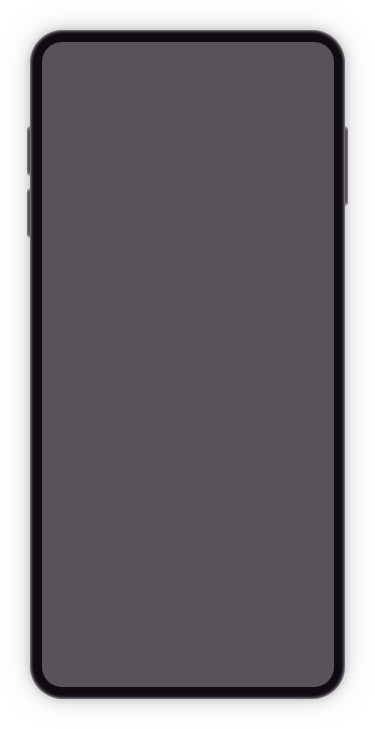
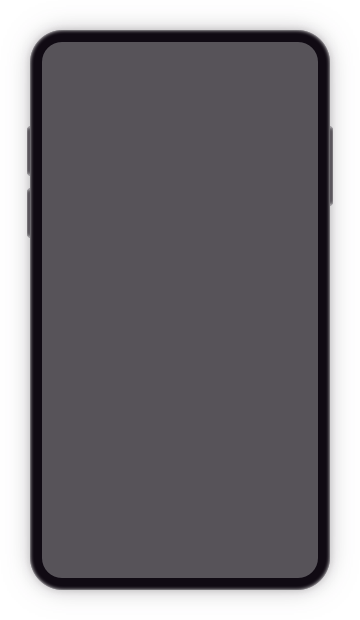
fix: 用户端图片上传

Changed region(s): [[0.0611, 0.0306, 0.9472, 0.9806]]

diff --git a/src/views/pages/brand/marketing/components#/slider.component.vue b/src/views/pages/brand/marketing/components#/slider.component.vue
@@ -15,7 +15,7 @@
             </div>
             <st-form-item v-else labelWidth="46px" label="链接">
                 <a-select placeholder="请输入连接的活动" @select="actSelect(li,$event)" v-model="li.activity_id">
-                    <a-select-option v-for="(act, i) in actList" :key="i" :value="act.id">{{act.activity_name}}</a-select-option>
+                    <a-select-option v-for="(act, i) in actList" :key="i" :value="act.id" :disabled="filterActList(act.id)">{{act.activity_name}}</a-select-option>
                 </a-select>
             </st-form-item>
           </div>
@@ -30,7 +30,7 @@
           </st-image-upload>
             <st-form-item labelWidth="46px" label="链接">
                 <a-select placeholder="请输入连接的活动" @select="addSelect" v-model="addItem.activity_id">
-                  <a-select-option v-for="(act, i) in actList" :key="i" :value="act.id">{{act.activity_name}}</a-select-option>
+                  <a-select-option v-for="(act, i) in actList" :key="i" :value="act.id" :disabled="filterActList(act.id)">{{act.activity_name}}</a-select-option>
                 </a-select>
             </st-form-item>
             </div>
@@ -41,10 +41,11 @@
 </template>
 <script>
 import { H5WrapperService } from '@/views/pages/brand/setting/mina/components#/h5/h5-wrapper.service'
-import { cloneDeep } from 'lodash-es'
+import { cloneDeep, find as _find } from 'lodash-es'
 import draggable from 'vuedraggable'
 import { ActivityService } from '../activity.service'
 import over from '@/assets/img/brand/setting/mina/over.png'
+
 export default {
   bem: {
     slider: 'activity-slider-component'
@@ -91,15 +92,12 @@ export default {
       handler(newVal) {
         console.log(newVal)
         this.h5WrapperService.SET_H5INFO(newVal, 1)
-        // if(newVal.length) this.filterActList(newVal)
       }
     }
   },
   methods: {
-    filterActList(list) {
-      let ids = []
-      list.forEach(item => ids.push(item.activity_id))
-      this.actFilterList = this.actList.filter(item => !ids.includes(item.id))
+    filterActList(id) {
+      return !!_find(this.list, o => o.activity_id === id)
     },
     imageUploadChange(img) {
       let addItem = Object.assign({}, this.addItem)

diff --git a/src/views/pages/brand/setting/mina/components#/h5/nav.component.vue b/src/views/pages/brand/setting/mina/components#/h5/nav.component.vue
@@ -53,12 +53,12 @@ export default {
       list: [],
       options: {
         image_id: 'image_id',
-        image_key: 'image_key',
+        image_key: 'icon_key',
         image_url: 'icon'
       },
       options_selected: {
         image_id: 'image_id',
-        image_key: 'image_key',
+        image_key: 'selected_icon_key',
         image_url: 'selected_icon'
       }
     }
@@ -76,14 +76,16 @@ export default {
   },
   methods: {
     imageUploadChange(e, index) {
-      let url = ''
-      if (e.length) url = e[0].image_key
-      this.list[index].icon = url
+      if (e.length) {
+        this.list[index].icon_key = e[0].icon_key
+        this.list[index].icon = e[0].icon
+      }
     },
     selectedImageUploadChange(e, index) {
-      let url = ''
-      if (e.length) url = e[0].image_key
-      this.list[index].selected_icon = url
+      if (e.length) {
+        this.list[index].selected_icon_key = e[0].selected_icon_key
+        this.list[index].selected_icon = e[0].selected_icon
+      }
     }
   }
 }

diff --git a/src/views/pages/brand/setting/mina/components#/h5/h5.component.less b/src/views/pages/brand/setting/mina/components#/h5/h5.component.less
@@ -1,6 +1,6 @@
 .function {
     @designSize: 750px;
-    @baseSize: 307px;
+    @baseSize: 276px;
     .rpx(@px) {
       return: unit((@px / @designSize * @baseSize), px);
     }
@@ -9,17 +9,18 @@
     .pos-r();
     .bd-r(20px);
     overflow: hidden;
-    .w(389px);
+    .w(358px);
     margin: 0 auto;
-    padding: 44px 41px 110px;
+    padding: 42px 41px 89px;
     background-image: url('~@/assets/img/brand/setting/mina/phone.png');
+    background-repeat: no-repeat;
     background-size: 100%;
     
 }
 .h5-component{
     padding: 0 rpx(40) 10px;
     width: rpx(750);
-    .h(624px);
+    .h(510px);
     overflow-y: auto;
     .bg(#fff);
     border-radius: 20px 20px 0 0;

diff --git a/src/views/pages/brand/setting/mina/components#/h5/h5.component.vue b/src/views/pages/brand/setting/mina/components#/h5/h5.component.vue
@@ -19,7 +19,7 @@
       </div>
       <div :class="h5('action')">
         <div v-for="(li,index) in actionInfo" class="action-li" :key="index">
-          <img :src="li.image_url | imgFilter">
+          <img :src="li.image_url">
           <p>{{li.title}}</p>
         </div>
       </div>
@@ -80,7 +80,7 @@
       </div>
       <div :class="h5('nav')">
         <div v-for="(li,index) in menuInfo" class="nav-li" :key="index">
-          <img :src="li.icon | imgFilter">
+          <img :src="li.icon">
           <p>{{li.name}}</p>
         </div>
       </div>

diff --git a/src/views/pages/brand/setting/mina/components#/h5/coach.component.vue b/src/views/pages/brand/setting/mina/components#/h5/coach.component.vue
@@ -20,7 +20,7 @@
               </a-popconfirm> -->
             </div>
             <img :src="(li.head_img.image_url || config.PLACEHOLDER_IMG.AVATAR) | imgFilter">
-            <div style="-webkit-box-orient: vertical;" :class="action('nickname')">{{li.nickname}}</div>
+            <div style="-webkit-box-orient: vertical;" :class="action('nickname')" :title="li.nickname">{{li.nickname}}</div>
           </div>
         </a-col>
         <a-col :span="4">

diff --git a/src/views/pages/brand/setting/mina/components#/h5/action.component.vue b/src/views/pages/brand/setting/mina/components#/h5/action.component.vue
@@ -50,9 +50,10 @@ export default {
   },
   methods: {
     imageUploadChange(e, index) {
-      let url = ''
-      if (e.length) url = e[0].image_key
-      this.list[index].image_url = url
+      if (e.length) {
+        this.list[index].image_url = e[0].image_url
+        this.list[index].image_key = e[0].image_key
+      }
     }
   }
 }

diff --git a/src/views/pages/brand/setting/mina/components#/h5/h5-wrapper.component.less b/src/views/pages/brand/setting/mina/components#/h5/h5-wrapper.component.less
@@ -22,7 +22,7 @@
       bottom: 0;
       left: 224px;
       right: 24px;
-      .bg(#fff);
+      .bg(rgba(255,255,255,.8));
       .pd(21px);
       .ta-c();
       z-index: 1;
